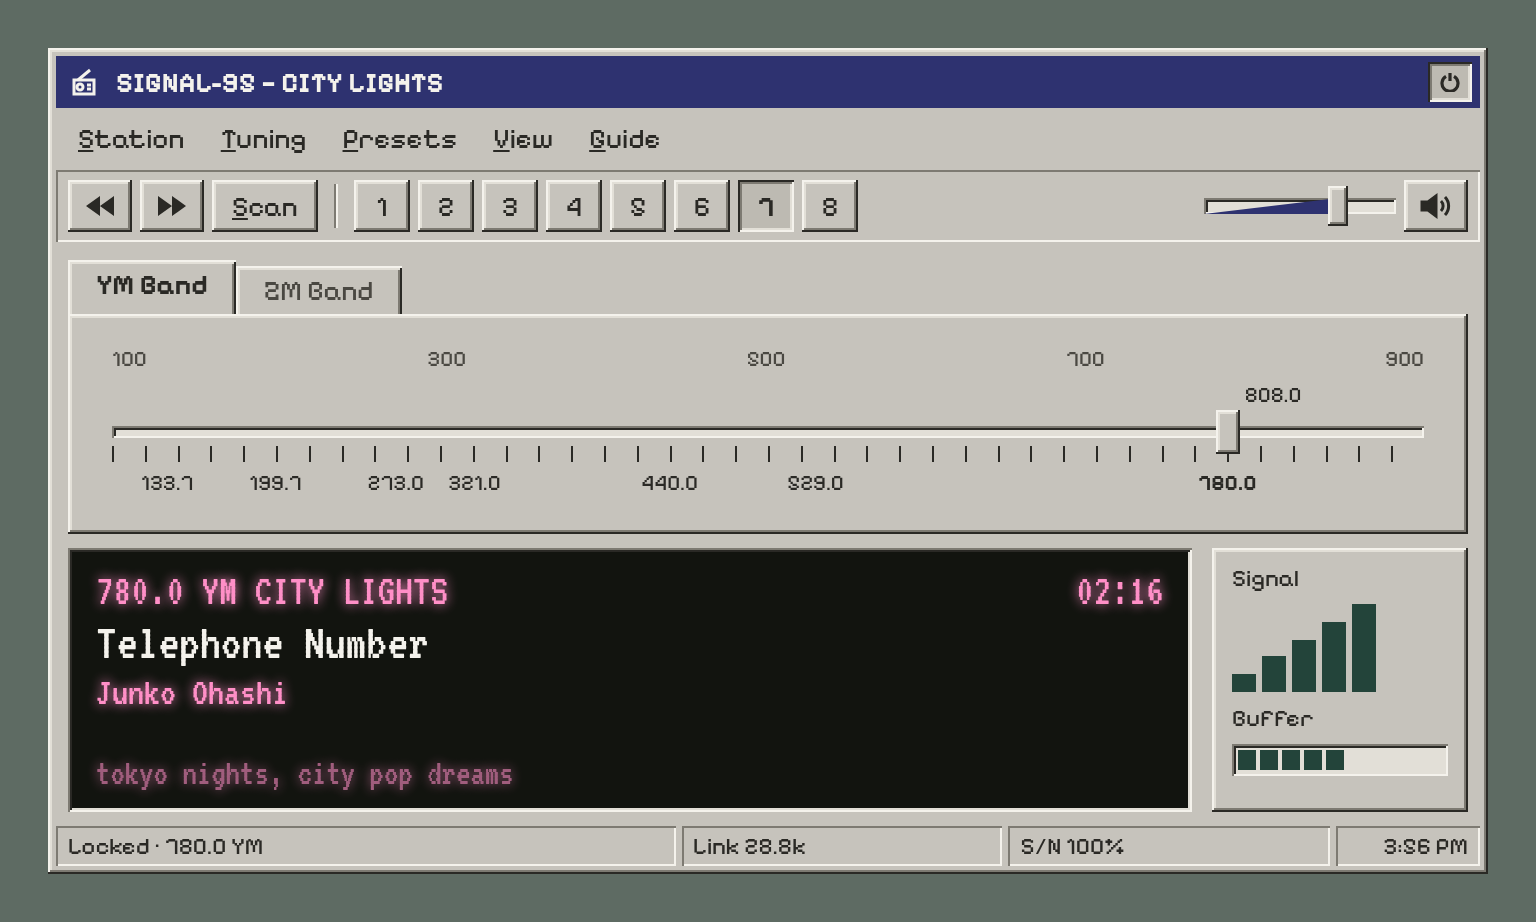
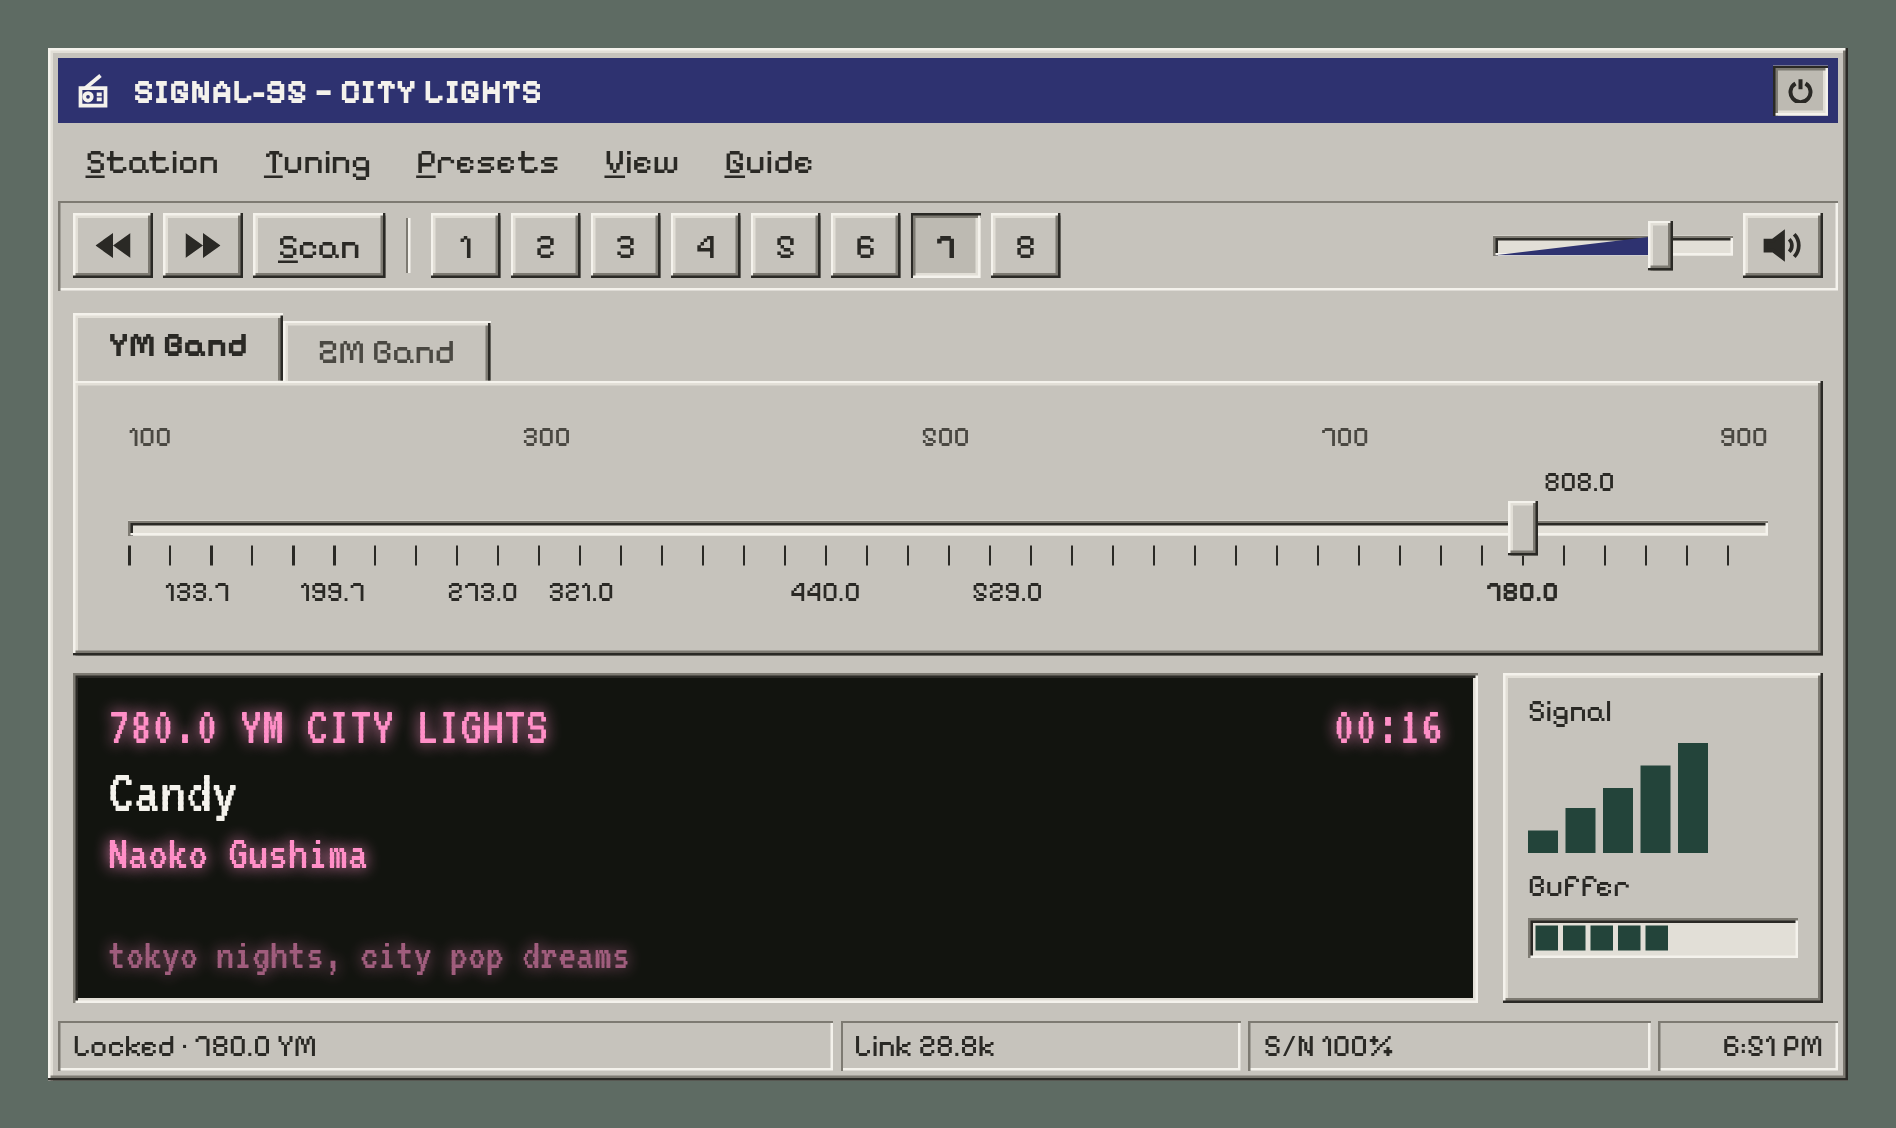
Fit the screen, and a real way in: power-on display, scaled desk, full-height phones
A design pass found three problems with the layout as a whole:

- The way in. With the set off, the only start was a 22px icon in a
  corner, with an unreadable hint. Now the whole display is a power-on
  button ('Power on', 'Click here, or press P' / 'Tap here to tune in').
  It has a z-index because the display's translucent rows showed through
  it at first.
- A big desk. At 1440x900 the window was a 720px stamp at the top.
  fitWindow() now scales it in steps (1.25 to 2) and centres it, using a
  transform rather than zoom so every hit test stays right. Dialogs
  follow the scale, clamped to fit.
- Phones and upright tablets now fill the screen height, with the
  display taking the spare room. Upright tablets get larger display text
  with the meters underneath, and touch screens get thumb-sized buttons.

Three new drive scenarios cover tap-to-power-on with no bleed-through,
the scaled desk (centred, with a dial click at 25% tuning 25% along the
band), and upright tablets filling the screen. Both new guards are
mutation-checked; the bleed-through probe first missed its bug by testing
the display's centre. Screenshots and og.jpg regenerated. 138 tests,
drive 19/19.

diff --git a/styles.css b/styles.css
@@ -45,9 +45,12 @@ body {
   font-variant-ligatures: none;
   display: flex;
   justify-content: center;
-  align-items: flex-start;
+  /* Centred on the desk, both ways (2026-10-13): pinned to the top, the
+     window read as a web page with a lot of nothing under it. */
+  align-items: center;
   min-height: 100vh;
-  padding: 40px 16px;
+  min-height: 100dvh;
+  padding: 32px 16px;
 }
 
 .sr-only {
@@ -72,7 +75,13 @@ body {
 
 /* ---- the window ---- */
 
-main { width: 100%; max-width: 720px; }
+/* The frame holds the window's place on the desk; app.js (fitWindow)
+   scales the window up in steps on a big screen and sizes the frame to
+   match. A transform, not `zoom`: every hit test here (the dial, the
+   volume slider) measures getBoundingClientRect against clientX, and a
+   transform keeps those two in the same space in every browser. */
+.frame { width: 100%; max-width: 720px; }
+main { width: 100%; max-width: 720px; transform-origin: top left; }
 
 .window { width: 100%; max-width: 720px; padding: 4px; display: flex; flex-direction: column; gap: 3px; }
 
@@ -148,6 +157,7 @@ main { width: 100%; max-width: 720px; }
 .lower { display: flex; gap: 10px; padding: 4px 6px; }
 
 .led {
+  position: relative;
   flex: 1; min-height: 132px; background: var(--tube); padding: 10px 14px;
   font-family: 'VT323', monospace; color: var(--led);
   display: flex; flex-direction: column; gap: 2px;
@@ -162,6 +172,27 @@ main { width: 100%; max-width: 720px; }
    rather than truncate -- a cut-off lyric is worse than a taller panel. */
 .led.lyrics .title { font-size: 24px; }
 .led.lyrics .artist { opacity: 0.55; text-shadow: none; }
+
+/* The way in while the set is off: the whole display, as a button. The
+   first version left a 22px icon in the title bar's corner as the only way
+   in, with a hint in dim green on black that was hard to read. */
+.ledpower {
+  /* z-index: the display's rows are translucent (.glow), and opacity puts
+     them in a later paint layer than an earlier positioned sibling -- the
+     first version had "Press P..." showing through this panel. */
+  position: absolute; inset: 0; z-index: 2; border: 0; background: var(--tube); cursor: pointer;
+  display: flex; flex-direction: column; align-items: center; justify-content: center; gap: 6px;
+  font-family: 'VT323', monospace; color: var(--led);
+}
+.ledpower[hidden] { display: none; }
+.ledpower .big { display: flex; align-items: center; gap: 10px; font-size: 42px; text-shadow: 0 0 10px var(--led); }
+.ledpower .hint { font-size: 20px; color: var(--chalk); }
+.ledpower:hover .big, .ledpower:focus-visible .big { color: var(--chalk); }
+.ledpower:focus-visible { outline: 1px dotted var(--chalk); outline-offset: -6px; }
+@media (prefers-reduced-motion: no-preference) {
+  .ledpower .big { animation: ledpulse 2.4s ease-in-out infinite; }
+  @keyframes ledpulse { 50% { text-shadow: 0 0 2px var(--led); } }
+}
 
 .meters { width: 128px; padding: 8px 10px; display: flex; flex-direction: column; gap: 6px; font-size: 12px; }
 .bars { display: flex; align-items: flex-end; gap: 3px; height: 44px; }
@@ -278,6 +309,17 @@ kbd { display: inline-block; font: inherit; font-variant-ligatures: none; font-s
 
 #ytDock { position: fixed; left: -9999px; top: 0; width: 260px; height: 200px; }
 
+/* A finger, not a pointer (an iPad, upright or not): toolbar buttons and
+   tabs at a size a thumb can hit. Before the phone block below, which
+   lays the presets out its own way and wins where both apply. */
+@media (pointer: coarse) {
+  .toolbar .btn { min-height: 38px; }
+  .toolbar .icon { width: 44px; }
+  .toolbar .preset { width: 40px; }
+  .tab { padding-top: 8px; padding-bottom: 8px; }
+  .menutitle { padding: 8px 12px; }
+}
+
 /* The toolbar on a phone (2026-10-13, reported: "the presets wrap/look
    odd"). Left to flex-wrap, it broke wherever the space ran out: the
    separator dangling at the end of row one, the presets on row two, and
@@ -295,6 +337,36 @@ kbd { display: inline-block; font: inherit; font-variant-ligatures: none; font-s
   .toolbar .volume { width: 84px; }
 }
 
+/* A phone, or a tablet held upright: the window takes the screen's width
+   and height, and the display -- the thing worth looking at -- takes what
+   is spare. Both used to float a window with half the screen empty under
+   it (2026-10-13); an upright iPad was a 720px window in 1180px of desk. */
+@media (max-width: 560px), (max-width: 1100px) and (orientation: portrait) {
+  body { align-items: stretch; }
+  .frame { display: flex; flex-direction: column; min-height: calc(100dvh - 2 * var(--gutter, 32px)); max-width: 900px; }
+  main, .window { flex: 1; display: flex; flex-direction: column; max-width: none; }
+  .lower { flex: 1; flex-direction: column; }
+  .led { min-height: 190px; }
+  .led .title { font-size: 30px; }
+  .meters { width: auto; flex-direction: row; align-items: center; flex-wrap: wrap; }
+  .meters .buffer { flex: 1; min-width: 90px; }
+}
+/* An upright tablet's display is big enough to read across a room, so its
+   text grows to match; the meters sit under it, as on a phone, rather than
+   stretching into a tall thin column beside it. */
+@media (min-width: 561px) and (max-width: 1100px) and (orientation: portrait) {
+  .led { padding: 18px 24px; }
+  .led .line1 { font-size: 28px; }
+  .led .title { font-size: 44px; }
+  .led .artist { font-size: 30px; }
+  .led .tagline { font-size: 26px; }
+  .ledpower .big { font-size: 64px; }
+  .ledpower .hint { font-size: 28px; }
+}
+@media (max-width: 560px) {
+  :root { --gutter: 12px; }
+}
+
 @media (max-width: 560px) {
   .guidebody { flex-direction: column; height: 70vh; }
   .stationlist { width: auto; height: 34%; }
@@ -303,9 +375,6 @@ kbd { display: inline-block; font: inherit; font-variant-ligatures: none; font-s
   .menutitle { padding: 8px 9px; }
   .keys td:nth-child(3), .keys th:nth-child(3) { display: none; }
   .wxparts { grid-template-columns: 1fr; }
-  body { padding: 16px; }
-  .lower { flex-direction: column; }
-  .meters { width: auto; flex-direction: row; align-items: center; flex-wrap: wrap; }
-  .meters .buffer { flex: 1; min-width: 90px; }
+  body { padding: 12px; }
   #stSn { display: none; }
 }

diff --git a/app.js b/app.js
@@ -891,6 +891,50 @@ function toggleMute() {
   render()
 }
 
+// ---------------------------------------------------------------- fitting the screen
+// On a big screen the window is scaled up, in steps, as far as the desk
+// allows -- at 1440x900 the 720px window was a postage stamp with two
+// thirds of the screen empty. Steps, not a free fit, so the pixel font
+// lands on sizes it was drawn for; a transform (see styles.css) so hit
+// testing stays right; never below 1, and phones keep the fluid layout.
+// Dialogs follow the same scale, clamped to fit.
+const UI_STEPS = [2, 1.75, 1.5, 1.25, 1]
+let uiScale = 1
+
+function fitWindow() {
+  const frame = $('frame')
+  const main = $('main')
+  // Phones and upright tablets keep the fluid, full-height layout
+  // (styles.css); only a landscape desk gets the scaled window.
+  if (innerWidth <= 760 || (innerWidth <= 1100 && innerHeight > innerWidth)) {
+    uiScale = 1
+    main.style.transform = ''
+    main.style.width = ''
+    frame.style.width = ''
+    frame.style.height = ''
+    frame.style.maxWidth = ''
+    return
+  }
+  main.style.width = '720px'
+  const w = main.offsetWidth
+  const h = main.offsetHeight
+  uiScale = UI_STEPS.find((k) => w * k <= innerWidth - 64 && h * k <= innerHeight - 64) ?? 1
+  main.style.transform = uiScale === 1 ? '' : `scale(${uiScale})`
+  frame.style.maxWidth = 'none'
+  frame.style.width = `${w * uiScale}px`
+  frame.style.height = `${h * uiScale}px`
+}
+
+/** An open dialog at the window's scale, or the biggest step that fits. */
+function fitDialog(el) {
+  const d = el?.querySelector('.dialog')
+  if (!d) return
+  d.style.transform = ''
+  if (uiScale === 1) return
+  const k = UI_STEPS.find((s) => s <= uiScale && d.offsetWidth * s <= innerWidth - 32 && d.offsetHeight * s <= innerHeight - 32) ?? 1
+  d.style.transform = k === 1 ? '' : `scale(${k})`
+}
+
 // ---------------------------------------------------------------- volume
 // The listener's volume reaches two places: the YouTube player (the music)
 // and our master bus (static, handshake). Both go through here and nowhere
@@ -985,6 +1029,7 @@ function openModal(id, onEscape) {
   ctxMenu?.close()
   const el = $(id)
   el.hidden = false
+  fitDialog(el)
   modal = { el, onEscape, returnTo: document.activeElement }
   ;(el.querySelector('.def') ?? focusables(el)[0])?.focus()
 }
@@ -1294,6 +1339,9 @@ function render() {
 
   $('title').textContent = s ? `SIGNAL-95 — ${s.callsign}` : 'SIGNAL-95'
   $('power').setAttribute('aria-pressed', String(state.power))
+  const lp = $('ledPower')
+  if (lp.hidden !== state.power) lp.hidden = state.power
+  $('ledPowerHint').textContent = COARSE ? 'Tap here to tune in' : 'Click here, or press P'
   $('mute').setAttribute('aria-pressed', String(state.muted))
   drawVolume()
   $('scan').setAttribute('aria-pressed', String(!!state.scanTimer))
@@ -1308,6 +1356,7 @@ function render() {
   const freqLine = `${state.freq.toFixed(1)} ${band.label}`
   if (!state.power) {
     // A phone has no P key: say what a thumb can do instead.
+    // (Covered by #ledPower, the display-sized way in, while off.)
     setLed(`${freqLine}`, '', 'Power is off', COARSE ? 'Tap the power button, top right' : 'Press P, or the button in the corner', '')
   } else if (s && lyricRows()) {
     const [cur, next] = lyricRows()
@@ -1367,6 +1416,7 @@ const clock = (sec) => `${String(Math.floor(sec / 60)).padStart(2, '0')}:${Strin
 
 function wireMouse() {
   $('power').addEventListener('click', togglePower)
+  $('ledPower').addEventListener('click', () => { togglePower(); $('power').focus({ preventScroll: true }) })
   $('mute').addEventListener('click', toggleMute)
   $('scan').addEventListener('click', toggleScan)
   $('seekUp').addEventListener('click', () => seek(1))
@@ -1648,6 +1698,12 @@ export async function start() {
   // Idle start defaults on -- the era's behaviour -- except for anyone
   // whose system asks for reduced motion, who has to ask for it.
   if (state.saverIdle === null) state.saverIdle = !reducedMotion
+  // The window's size on the desk: now, whenever the viewport changes, and
+  // whenever the window's own content does (lyrics that wrap, a
+  // weather readout in the status bar).
+  fitWindow()
+  addEventListener('resize', () => { fitWindow(); if (modal) fitDialog(modal.el) })
+  new ResizeObserver(() => fitWindow()).observe($('main'))
   // The game's keys, first of all (capture, ahead of the screensaver and the
   // radio): while it is open it owns the keyboard.
   window.addEventListener('keydown', (e) => { if (gameKey(e, true)) lastInputAt = Date.now() }, true)

diff --git a/index.html b/index.html
@@ -5,7 +5,7 @@
 <meta name="viewport" content="width=device-width, initial-scale=1">
 <!-- The build this markup belongs to. tools/stamp.js writes it beside
      build.json; main.js reloads once if they disagree (a stale cached page). -->
-<meta name="signal95-build" content="2026-10-14.1">
+<meta name="signal95-build" content="2026-10-14.2">
 <title>SIGNAL-95</title>
 <meta name="description" content="SIGNAL-95: an internet-radio tuner in the style of a mid-90s desktop app. Sixteen curated stations across two bands.">
 <!-- The share card. og.jpg is DERIVED from screenshots/hero.png by
@@ -54,7 +54,8 @@
 </script>
 </head>
 <body>
-<main>
+<div class="frame" id="frame">
+<main id="main">
 <section class="window raised" id="tuner" aria-labelledby="title">
   <header class="titlebar">
     <svg width="16" height="16" viewBox="0 0 16 16" aria-hidden="true" fill="none" stroke="currentColor" stroke-width="1.5"><path d="M3 14h10V7H3z"/><path d="M5 7l6-5"/><circle cx="6" cy="10.5" r="1.5"/><path d="M9.5 9.5h2M9.5 11.5h2"/></svg>
@@ -103,6 +104,12 @@
 
   <div class="lower">
     <div class="led sunken" id="led">
+      <!-- While the set is off, the whole display is the way in: a real
+           button, so a keyboard and a screen reader find it too. -->
+      <button class="ledpower" id="ledPower" hidden>
+        <span class="big"><svg width="26" height="26" viewBox="0 0 10 10" aria-hidden="true" fill="none" stroke="currentColor" stroke-width="1.2"><path d="M3 2.2a4 4 0 1 0 4 0"/><path d="M5 0.5v4"/></svg>Power on</span>
+        <span class="hint" id="ledPowerHint"></span>
+      </button>
       <div class="line1 glow"><span id="ledFreq"></span><span id="ledTime"></span></div>
       <div class="title" id="ledTitle"></div>
       <div class="artist glow" id="ledArtist"></div>
@@ -125,6 +132,7 @@
   </footer>
 </section>
 </main>
+</div>
 
 <div class="scrim" id="lost" hidden>
   <section class="dialog alert raised" role="alertdialog" aria-modal="true" aria-labelledby="lostTitle" aria-describedby="lostBody">

diff --git a/CLAUDE.md b/CLAUDE.md
@@ -621,6 +621,40 @@ and deleting the dot rule were both checked to turn the suite red.
   come from the same 16px source; "any", not "maskable" -- a circular crop
   at that size clips the radio's corners.
 
+## Fitting the screen, and the way in (2026-10-14)
+
+A design pass found three things wrong with the whole, in order of
+impact, and fixed them together:
+
+- **The way in.** Off, the only way to start was a 22px icon in the title
+  bar's corner, with a hint in dim green on black. Now the whole display
+  is a real `<button id="ledPower">` while the set is off -- "Power on",
+  and "Click here, or press P" / "Tap here to tune in". It has `z-index`
+  because the display's rows are translucent (`.glow`), which put them in
+  a later paint layer: the first version had them showing through it.
+- **A big desk.** At 1440x900 the 720px window sat at the top with two
+  thirds of the screen empty. `fitWindow()` now scales it in steps (1,
+  1.25, 1.5, 1.75, 2 -- steps so the pixel font lands on sizes it was
+  drawn for), centred, with `#frame` holding its place. **A transform, not
+  `zoom`:** every hit test here measures getBoundingClientRect against
+  clientX, and only a transform keeps those in the same space in every
+  browser -- the drive clicks the dial at 25% through the scaled window
+  and checks it tunes 25% along the band. Dialogs follow the scale,
+  clamped to fit (`fitDialog`).
+- **Phones and upright tablets** take the full screen height, the display
+  taking the spare room; an upright tablet's display text grows and the
+  meters sit under it. `pointer: coarse` gets thumb-sized toolbar
+  buttons and tabs.
+
+Measured: 1.75x on 1440x900, 1.5x on a 1280x720 laptop and an iPad held
+sideways; upright iPad and phones fill the screen. The drive has a
+scenario for each, mutation-checked (the bleed-through probe first
+checked the display's centre, where no row is, and passed with the bug
+in -- it probes the rows now).
+
+When stopping a dev server from a script, kill it by PID: `pkill -f` with
+its command line also matches the shell running the pkill, and kills it.
+
 ## On a phone (2026-10-13)
 
 Under 600px the toolbar is two deliberate rows, not a flex-wrap: transport
